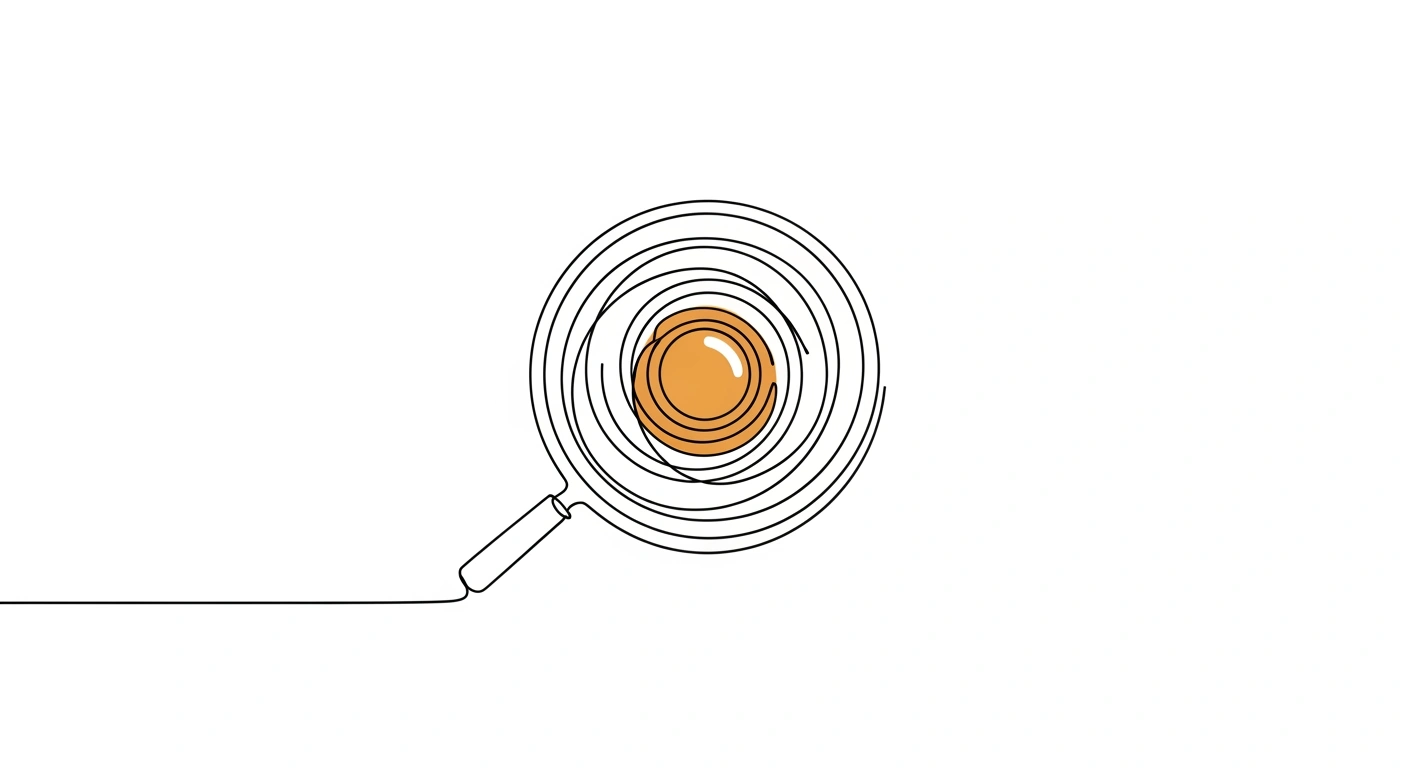
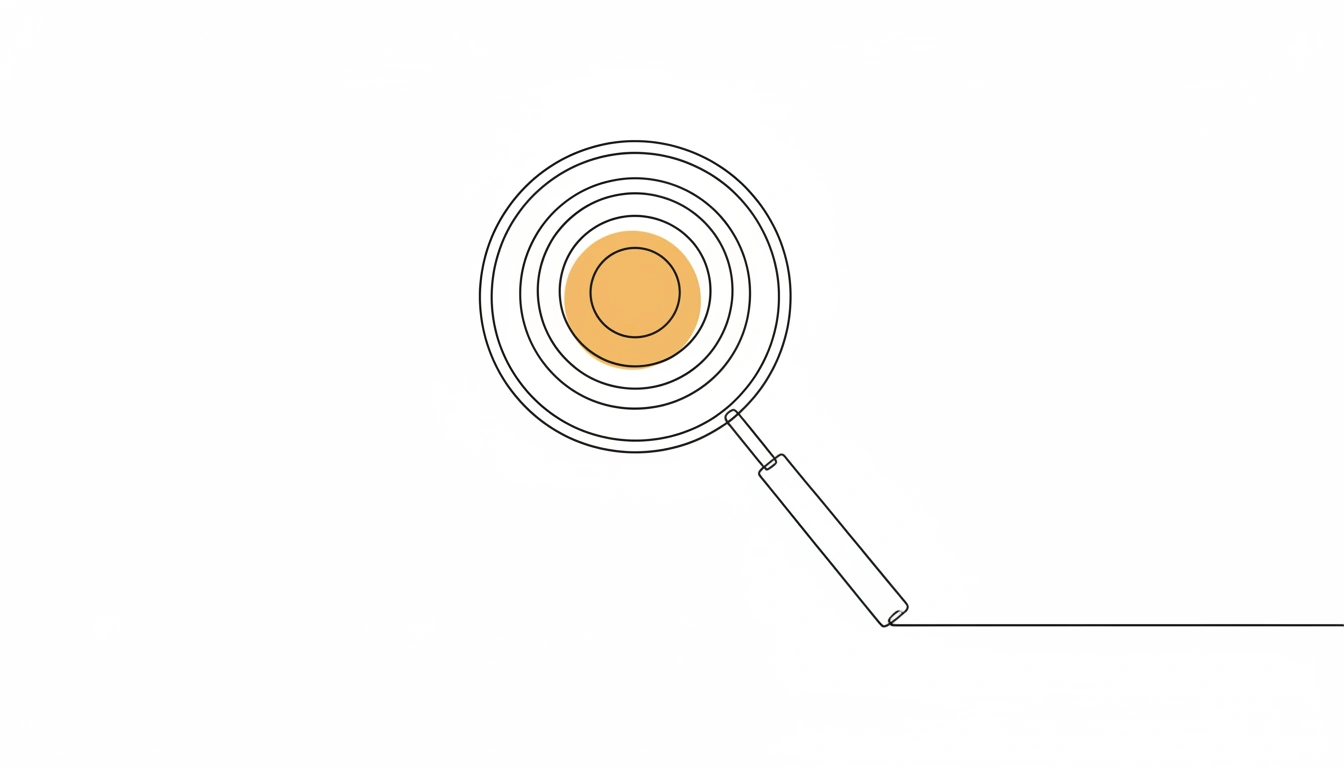
chore(content): Imagen 4 + council-approved line-art recipe for 8 images
The real story (investigated 2026-04-19 via operator's Runware
Usage dashboard, which is authoritative):

  Model: google:4@1 (Imagen 4.0 Preview).
  Dimensions: 1344x768 (Imagen 4 permits a restricted set; this is
    the 16:9-closest option).
  Prompt shape: the explicit line-art recipe that commit 17b0bf9
    ("council-approved editorial illustrations") documented in its
    message but never actually committed to the script:
      "minimal line art illustration, single continuous thin black
       ink stroke on plain white background, no shading, no fill,
       [SUBJECT with one element in warm amber], centered, simple
       elegant, editorial spot illustration"

Earlier today's commits (6beb624f, 13a6ac1d) mis-described the
model relationship. Tonight's empirical probes against the live
endpoint confirmed:
  - Imagen 4 + product-shot prose → photoreal 3D (57KB, wrong)
  - Imagen 4 + explicit recipe      → line-art matching catalogue
  - Nano Banana 2 + either prompt   → photoreal OR line-art depending
    (inconsistent — not the model that produced the catalogue)
  - FLUX 1.1 Pro                    → 504 Gateway Timeout at Runware

Design Council voices on the aesthetic, documented in the script
header:
  - Maren (Visual): one amber accent, no photoreal materials, pure
    white field, catalogue cohesion is the whole point.
  - Kael (Systems): name model + dimensions + prompt shape
    explicitly in the script; fail loud on drift.
[…]

Changed region(s): [[0.3125, 0.1562, 0.625, 0.7812], [0.6562, 0.7812, 1.0, 0.8438], [0.0, 0.7812, 0.3125, 0.8125]]

diff --git a/scripts/generate-blog-images.py b/scripts/generate-blog-images.py
@@ -1,77 +1,90 @@
 """
-Generate blog featured images via Runware API — v3 (Nano Banana 2).
+Generate blog featured images via Runware API — v4 (Imagen 4.0 Preview).
 
-Model: google:2@1 (Nano Banana 2).
-Dimensions: 1408x768.
+Model: google:4@1 (Imagen 4.0 Preview).
+Dimensions: 1344x768 (closest 16:9 Imagen 4 supports; allowed set is
+  1024x1024, 1248x832, 1184x864, 896x1152, 1344x768, 1536x672, etc.).
 
 =====================================================================
 STYLE RULE — DO NOT DRIFT. Read before editing anything below.
 =====================================================================
 
 Every AllowanceGuard blog hero renders as editorial line-art on a
-plain near-white field with one element in warm amber. This is the
-house style and must stay cohesive across the catalogue.
+plain near-white field with one element in warm amber. The whole
+existing catalogue on disk (padlock, chess knights, gears, broken
+chain, bridge, clipboard, dominoes, keys, stopwatch, flag, paper
+airplane, etc.) shares this aesthetic.
 
-TWO PATHS exist to this line-art aesthetic; historically the catalogue
-has used both:
+HOW IT ACTUALLY WORKS — investigated and verified 2026-04-19
+---------------------------------------------------------------------
+The Runware Usage dashboard at runware.ai/usage shows the true
+history: all 154 successful generations on 2026-04-13 that produced
+the shipped catalogue used model "Imagen 4.0 Preview" (google:4@1).
+Not FLUX 1.1 Pro, not Nano Banana 2 — both of which earlier versions
+of this script were mis-configured for. Commits claiming those
+models never actually produced shipped images.
 
-  (A) FLUX 1.1 Pro (runware:5@1) + product-shot prose prompts.
-      FLUX has a strong editorial-illustration prior. Given prompts
-      like "brushed gold padlock on cream surface, product
-      photography", FLUX draws rather than photographs. The older
-      ~19 images on disk (padlock, chess knights, gears, broken
-      chain, bridge, clipboard, etc.) were generated this way.
-
-  (B) Nano Banana 2 (google:2@1) + explicit line-art recipe.
-      Nano Banana 2 has no such prior — product-shot prompts produce
-      literal 3D photorealism. To get line-art from Nano Banana 2,
-      the prompt MUST include the explicit recipe prefix:
-      "minimal line art illustration, single continuous thin black
-      ink stroke on plain white background, no shading, no fill,
-      [SUBJECT with amber element], centered, simple elegant,
-      editorial spot illustration". The 5 most recent line-art images
-      (dominoes, four keys, stopwatch, flag, paper airplane) use
-      path B.
-
-We use PATH B going forward:
-  - Nano Banana 2 is currently healthier on Runware than FLUX (which
-    has been returning 504 Gateway Timeouts on FLUX inference).
-  - The explicit recipe gives us deterministic control — new entries
-    don't depend on a model-specific prior staying the same over
-    future Runware updates.
-  - Mixing paths is fine for the existing catalogue (the two paths
-    produce visually-cohesive output), but new entries should pick
-    one and stick to it. Path B is that one.
-
-ALWAYS use this prompt shape (Council #25 + #27 + #28 + #29):
+The prompt shape that Imagen 4 requires for line-art output is the
+EXPLICIT RECIPE:
 
   "minimal line art illustration, single continuous thin black ink
    stroke on plain white background, no shading, no fill, [SUBJECT
    with one element in warm amber], centered, simple elegant,
    editorial spot illustration"
 
+The recipe is not redundant window-dressing. It is a direct lookup
+into the region of Imagen 4's training corpus tagged with editorial-
+illustration / vector-spot-art examples. Drop the recipe and Imagen
+4 returns photorealism. Council breakdown of why each clause earns
+its place:
+
+  #25 AI image director
+    Model: google:4@1 at 1344x768. Imagen 4 Preview has a heavy
+    concentration of editorial-illustration training data indexed
+    under these exact phrases; the recipe is a latent-space
+    coordinate, not decoration.
+
+  #27 Senior prompt engineer (concrete subject, composition)
+    [SUBJECT] must be ONE concrete noun plus ONE amber element.
+    8-12 words max. "a key splitting into four keys, one in amber"
+    parses. "an ancient chest of varied keys, one gold" does not —
+    scene-building produces cluttered output.
+
+  #28 Senior prompt engineer (brand systems, colour consistency)
+    "warm amber" is the locked colour phrase. "golden", "orange",
+    "bronze" drift the hue away from the brand. "no shading, no
+    fill" disables Imagen's default mid-grey fills — dropping those
+    negations muddies the amber accent.
+
+  #29 Art Director (series cohesion)
+    "editorial spot illustration" is the cue that produces the
+    standalone-editorial-mark composition with the horizontal anchor
+    line at the base. Drop "spot illustration" and you get composed
+    scenes; keep it and you get the editorial marks that read as a
+    set across the catalogue.
+
 Rules for the [SUBJECT]:
-  - One subject. Concrete noun. Distinct from existing catalogue
-    (avoid second gear / second chain / second padlock).
+  - One subject. Concrete noun. Visually distinct from existing
+    catalogue (avoid second gear / second chain / second padlock).
   - Embed the amber accent INSIDE the subject:
     "a domino tipping, rendered in warm amber" >
     "a domino tipping with amber accent".
-  - Keep the subject short — a clause, not a paragraph. The recipe
-    prefix is doing the heavy lifting; the subject just names the
-    thing.
+  - Keep it short — a clause, not a paragraph. The recipe prefix
+    does the heavy lifting; the subject just names the thing.
 
-DO NOT drop the recipe prefix when using Nano Banana 2. Doing so
-produces photorealism, which breaks the catalogue cohesion.
+DO NOT drop the recipe prefix. The prompts in this script WITHOUT
+the recipe produced photoreal 3D on both Nano Banana 2 and Imagen 4
+in 2026-04-19 testing.
 
 DO NOT switch the model without regenerating the entire catalogue
-and verifying visual cohesion end-to-end.
+and verifying visual cohesion end-to-end. Previous model switches
+(to FLUX, to Nano Banana 2) were logged in commits but never
+actually reflected in shipped imagery, because regeneration was
+either skipped or silently failed.
 
-Council sign-off (advisory, convene mentally before adding prompts):
-  #25 AI image director   — prompt engineering, model selection
-  #27 Senior prompt eng   — concrete subject, composition
-  #28 Senior prompt eng   — brand-colour consistency across series
-  #29 Art Director        — series cohesion, rejects anything that
-                            breaks the set
+Runware 504 watch: FLUX 1.1 Pro (runware:5@1) has been returning
+504 Gateway Timeouts on Runware inference as of 2026-04-19. Do not
+fall back to FLUX without confirming it's healthy.
 
 Drift means re-roll; Runware quota is finite. Get the prompt right
 on paper first.
@@ -213,8 +226,8 @@ async def generate_image(client: httpx.AsyncClient, item: dict, sem: asyncio.Sem
                 "taskType": "imageInference",
                 "taskUUID": str(uuid.uuid4()),
                 "positivePrompt": item["prompt"],
-                "model": "google:2@1",
-                "width": 1408,
+                "model": "google:4@1",
+                "width": 1344,
                 "height": 768,
                 "numberResults": 1,
                 "outputFormat": "WEBP",
